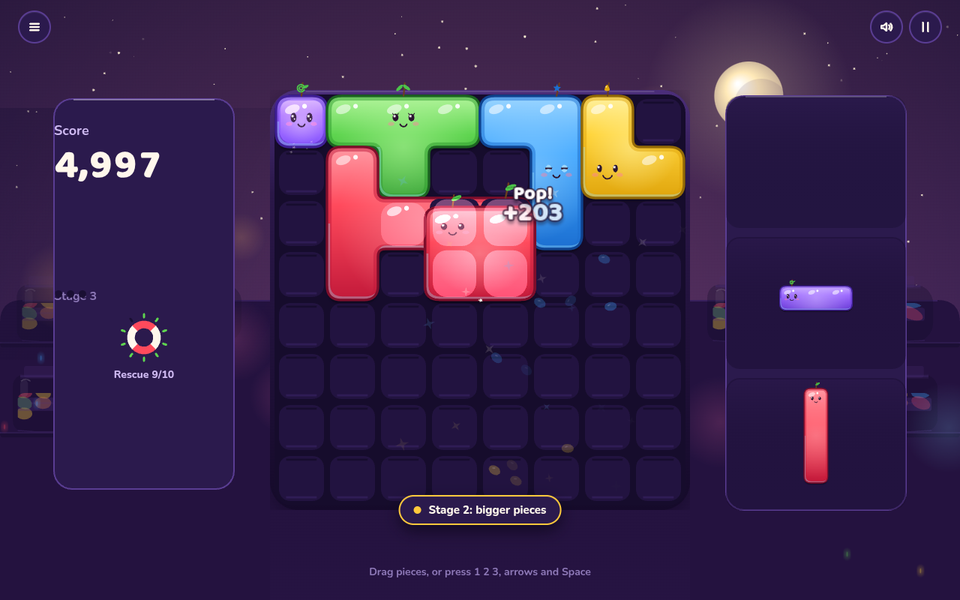
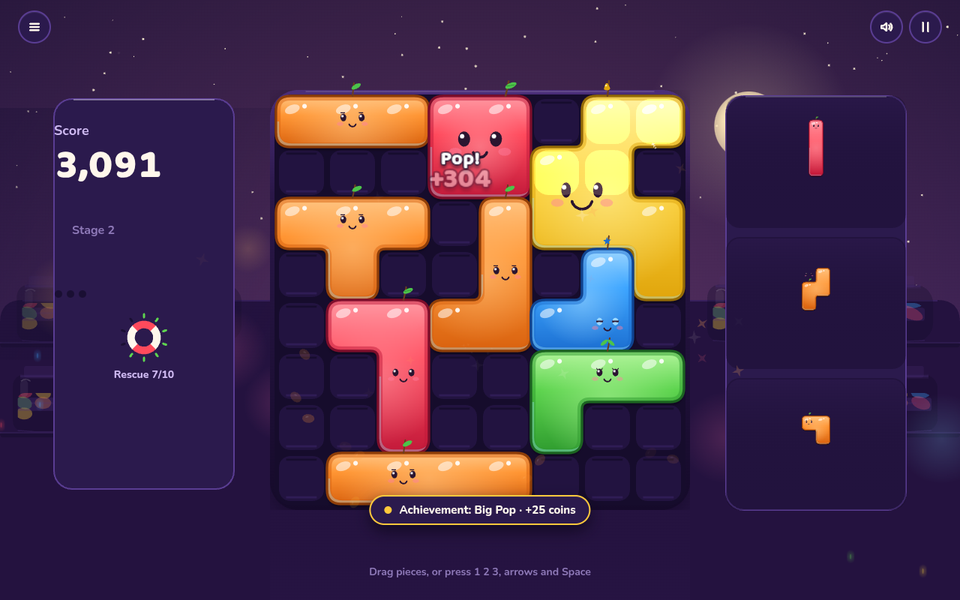
Desktop HUD: stage label under the score, clear of combo pips and rescue ring; README desktop shot

diff --git a/src/render/hudView.ts b/src/render/hudView.ts
@@ -18,7 +18,7 @@ export function drawHud(ctx: CanvasRenderingContext2D, layout: Layout, state: Ga
     ctx.font = '800 54px "Baloo 2", sans-serif'; ctx.fillStyle = PALETTE.ui.textPrimary; drawScore(ctx, new Intl.NumberFormat('en-US').format(Math.round(score)), layout.score.x, layout.score.y + 116, elapsed, flaming, flameFlavour, reducedMotion, tier, flameBreakAt, candyFlameUntil);
     if (state.mode === 'daily') { ctx.font = '700 14px Nunito, sans-serif'; ctx.fillStyle = PALETTE.ui.textSecondary; ctx.fillText(S.dailyTray(Math.min(30, state.traysDealt)), layout.score.x, layout.score.y + 178); if (state.daily) { ctx.font = '800 14px Nunito, sans-serif'; ctx.fillStyle = PALETTE.ui.gold; ctx.fillText(S.fodDouble(S.flavourName(state.daily.flavourOfDay)), layout.score.x, layout.score.y + 206); } }
     if (state.mode !== 'zen' && best > 0) { const isNewBest = state.score > best; ctx.font = '700 16px Nunito, sans-serif'; ctx.fillStyle = isNewBest ? PALETTE.ui.gold : PALETTE.ui.textSecondary; ctx.fillText(isNewBest ? S.newBest : S.best(new Intl.NumberFormat('en-US').format(best)), layout.score.x, layout.score.y + (state.mode === 'daily' ? 150 : 148)); }
-    if (state.mode === 'classic' || state.mode === 'expert') { ctx.font = '700 16px Nunito, sans-serif'; ctx.fillStyle = PALETTE.ui.textDim; ctx.fillText(S.stageLabel(state.stage), layout.score.x + layout.score.width * 0.1, layout.score.y + 280); }
+    if (state.mode === 'classic' || state.mode === 'expert') { ctx.font = '700 16px Nunito, sans-serif'; ctx.fillStyle = PALETTE.ui.textDim; ctx.fillText(S.stageLabel(state.stage), layout.score.x + layout.score.width * 0.1, layout.score.y + (layout.portrait ? 280 : 192)); }
   }
   if (scoreSparkleAt >= 0 && elapsed >= scoreSparkleAt && elapsed - scoreSparkleAt < 300) { const sparkleX = layout.portrait ? layout.width / 2 : layout.score.x; const sparkleY = layout.portrait ? layout.score.y + layout.score.height * 0.55 : layout.score.y + 116; const count = reducedMotion ? 2 : 6; ctx.save(); ctx.fillStyle = PALETTE.fx.sugar; ctx.globalAlpha = Math.max(0, 1 - (elapsed - scoreSparkleAt) / 300); for (let i = 0; i < count; i += 1) drawSparkle(ctx, sparkleX + Math.sin(i * 1.7 + elapsed / 70) * (16 + i * 4), sparkleY - 12 + Math.cos(i * 2.1 + elapsed / 80) * 10, 2.5); ctx.restore(); }
   const comboY = layout.portrait ? layout.combo.y + 19 : layout.combo.y + 34; ctx.textAlign = 'left'; ctx.font = '800 16px Nunito, sans-serif'; ctx.fillStyle = PALETTE.ui.textPrimary;
